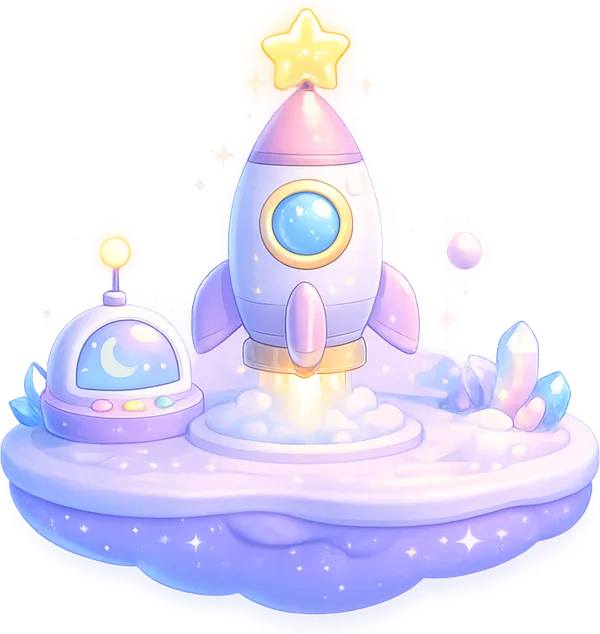
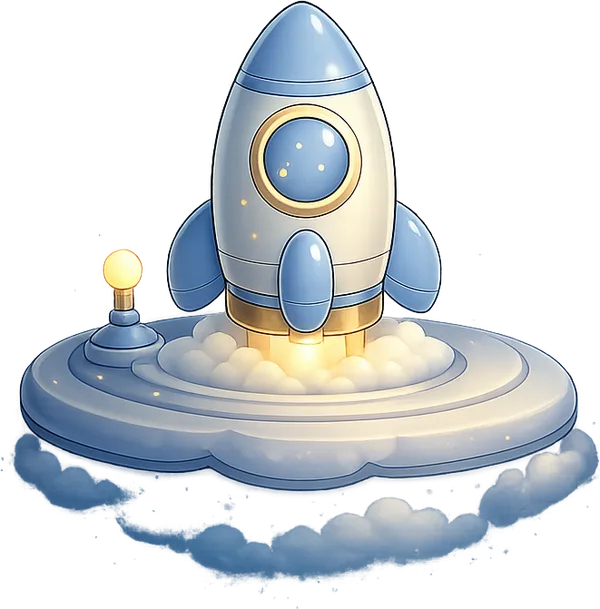
Ajustando com novos assets modules-visuals.js

diff --git a/apps/mobile/src/styles/modules.css b/apps/mobile/src/styles/modules.css
@@ -12,7 +12,8 @@
   height: 100dvh;
   padding: 0;
   overflow: hidden;
-  background: #8f6acb;
+  /* Tons extraídos do backgro.png novo (proposta calma, azul, sem roxo). */
+  background: #202a76;
 }
 
 .modules-header {
@@ -29,7 +30,7 @@
   gap: 10px;
   transform: translateX(-50%);
   color: var(--warm-white);
-  background: linear-gradient(180deg, rgba(38, 5, 71, 0.42), transparent);
+  background: linear-gradient(180deg, rgba(10, 14, 58, 0.45), transparent);
 }
 
 .modules-header img {
@@ -101,9 +102,10 @@
   text-align: center;
   scroll-snap-align: start;
   scroll-snap-stop: always;
+  /* Tons extraídos do backgro.png novo (proposta calma, azul, sem roxo). */
   background:
     radial-gradient(circle at 50% 58%, color-mix(in srgb, var(--module-accent) 28%, transparent), transparent 42%),
-    linear-gradient(180deg, #8060c1 0%, #b67fd1 48%, #829dd4 100%);
+    linear-gradient(180deg, #1f2a78 0%, #4054ac 48%, #8ea0da 100%);
 }
 
 /* ---- céu: estrelinhas, halo do accent, horizonte curvo (o "chão") ---- */
@@ -128,7 +130,7 @@
   width: 150px;
   aspect-ratio: 1;
   border-radius: 50%;
-  background: radial-gradient(circle at 35% 30%, rgba(255, 255, 255, 0.25), rgba(221, 196, 255, 0.12) 55%, transparent 70%);
+  background: radial-gradient(circle at 35% 30%, rgba(255, 255, 255, 0.25), rgba(196, 210, 255, 0.14) 55%, transparent 70%);
 }
 
 .module-scene__sky::after {

diff --git a/apps/mobile/src/config/module-visuals.js b/apps/mobile/src/config/module-visuals.js
@@ -29,7 +29,7 @@ export const SPACE_MODULE_VISUALS = [
     key: 'launch',
     title: 'Base de Lançamento',
     image: launchImg,
-    accent: '#ffbf56',
+    accent: '#ffcf7a',
     stationWidth: '350px',
     mascot: astronautGuide,
     mascotX: '5%',
@@ -41,7 +41,7 @@ export const SPACE_MODULE_VISUALS = [
     key: 'abacus',
     title: 'Estação do Ábaco',
     image: abacusImg,
-    accent: '#ee9fc9',
+    accent: '#b9c8f5',
     stationWidth: '330px',
     mascot: astronautExplore,
     mascotX: '74%',
@@ -53,7 +53,7 @@ export const SPACE_MODULE_VISUALS = [
     key: 'observatory',
     title: 'Observatório da Contagem',
     image: observatoryImg,
-    accent: '#79cfff',
+    accent: '#6fa0d8',
     stationWidth: '340px',
     mascot: astronautExplore,
     mascotX: '6%',
@@ -65,7 +65,7 @@ export const SPACE_MODULE_VISUALS = [
     key: 'crystal-lab',
     title: 'Laboratório dos Cristais',
     image: crystalLabImg,
-    accent: '#8dded9',
+    accent: '#a8e0e8',
     stationWidth: '330px',
     mascot: astronautExplore,
     mascotX: '73%',

diff --git a/apps/mobile/src/styles/trail.css b/apps/mobile/src/styles/trail.css
@@ -85,7 +85,8 @@
   margin-inline: auto;
   overflow: hidden;
   isolation: isolate;
-  background: linear-gradient(180deg, #8f6acb 0%, #b984d2 48%, #8ea6da 100%);
+  /* Tons extraídos do backgro.png novo (proposta calma, azul, sem roxo). */
+  background: linear-gradient(180deg, #202a76 0%, #3c4bae 48%, #8fa2dc 100%);
 }
 
 .journey-world__bg {
